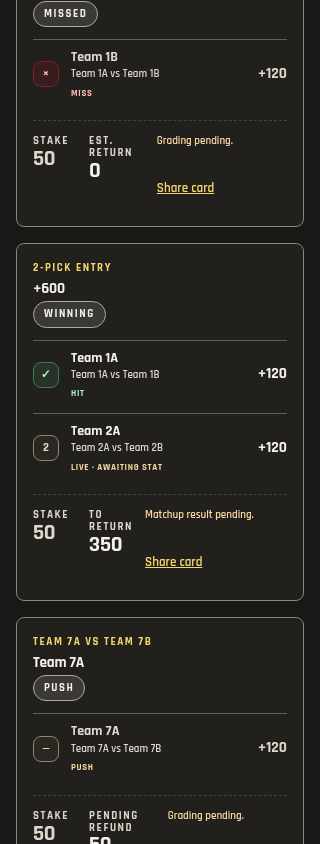
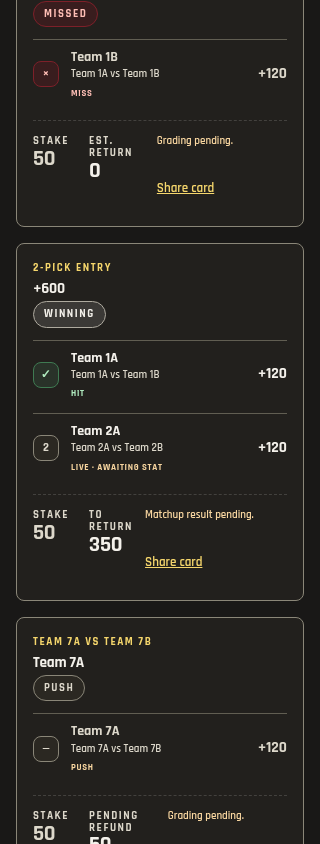
Keep live result pills in the requested semantic colors

Changed region(s): [[0.0938, 0.0, 0.3125, 0.0308], [0.125, 0.8009, 0.25, 0.8318]]

diff --git a/css/sportsbook.css b/css/sportsbook.css
@@ -745,7 +745,7 @@
 #sportsbook-wrap .sb-ticket .pill.green { border-color: var(--ok-line); background: var(--ok-bg); color: var(--ok); }
 #sportsbook-wrap .sb-ticket .pill.warn { border-color: var(--warn-line); background: var(--warn-bg); color: var(--warn-ink); }
 /* Open is the one that is still alive, so it is the one that is not grey. */
-#sportsbook-wrap .sb-ticket .pill:not(.green):not(.grey):not(.warn) {
+#sportsbook-wrap .sb-ticket .pill:not(.green):not(.grey):not(.warn):not(.sb-result-pill) {
   border-color: color-mix(in srgb, var(--accent-2) 34%, var(--line));
   background: color-mix(in srgb, var(--accent-2) 12%, transparent);
   color: var(--accent-2);

diff --git a/tools/capture-sportsbook-results-review.py b/tools/capture-sportsbook-results-review.py
@@ -33,6 +33,11 @@ with sync_playwright() as p:
    check(tag+' ties show a neutral mark',page.locator('#sb-ticket-4 [data-leg-result="void"] .sb-leg-mark').inner_text()=='—')
    check(tag+' actual bankroll and official bet status remain unchanged',page.locator('[data-review-wallet]').inner_text()=='420 SIN' and page.locator('#sb-ticket-1').get_attribute('data-ticket-status')=='open' and 'To return' in page.locator('#sb-ticket-1').text_content())
    check(tag+' book board shows hit/miss and actual final scores',page.locator('[data-fantasy-result="won"]').count()==1 and page.locator('[data-fantasy-result="lost"]').count()==1 and '120.50 pts' in page.locator('[data-review-board]').inner_text())
+
+   check(tag+' result pills retain semantic green and red',page.evaluate("""()=>{
+    const ctx=document.createElement('canvas').getContext('2d');const color=c=>{ctx.fillStyle=c;ctx.fillRect(0,0,1,1);return [...ctx.getImageData(0,0,1,1).data].join(',')};
+    return [[1,'--ok'],[2,'--danger-ink']].every(([id,token])=>{const style=getComputedStyle(document.querySelector('#sb-ticket-'+id+' .pill'));return color(style.color)===color(style.getPropertyValue(token).trim())});
+   }"""))
    check(tag+' no horizontal overflow',page.evaluate('document.documentElement.scrollWidth<=innerWidth'))
    page.screenshot(path=str(EVIDENCE/f'book-{width}-{theme}.png'));page.locator('#sb-ticket-3').scroll_into_view_if_needed();page.screenshot(path=str(EVIDENCE/f'tickets-{width}-{theme}.png'))
    before=page.evaluate('resultReads');page.evaluate('mondayFinal=true;dispatchEvent(new Event("focus"))');page.wait_for_function('(before)=>resultReads>before',arg=before);page.wait_for_function('document.querySelectorAll("#sb-ticket-3 [data-leg-result=won]").length===2')

diff --git a/docs/sportsbook-results-1480.md b/docs/sportsbook-results-1480.md
@@ -32,7 +32,7 @@ Validation: full `pnpm check` passes 2,164 tests / 262 files, including new evid
 identity, Sunday/Monday, mixed parlay, tie, stale/missing data, official settlement,
 refund/estimated return and refresh lifecycle tests. Final theme check and build
 pass (85 modules / 3 startup / 4 Home). The production-controller browser harness
-passes 44 checks in Light/Dark at 320/390px, with 12 inspected app/share screenshots
+passes 48 checks in Light/Dark at 320/390px, with 12 inspected app/share screenshots
 and real result loading/foreground refresh against isolated providers. Existing
 bet-slip review passes 18 layouts without writes or errors.
 [Checks and screenshots](sportsbook-results-1480/checks.json).
